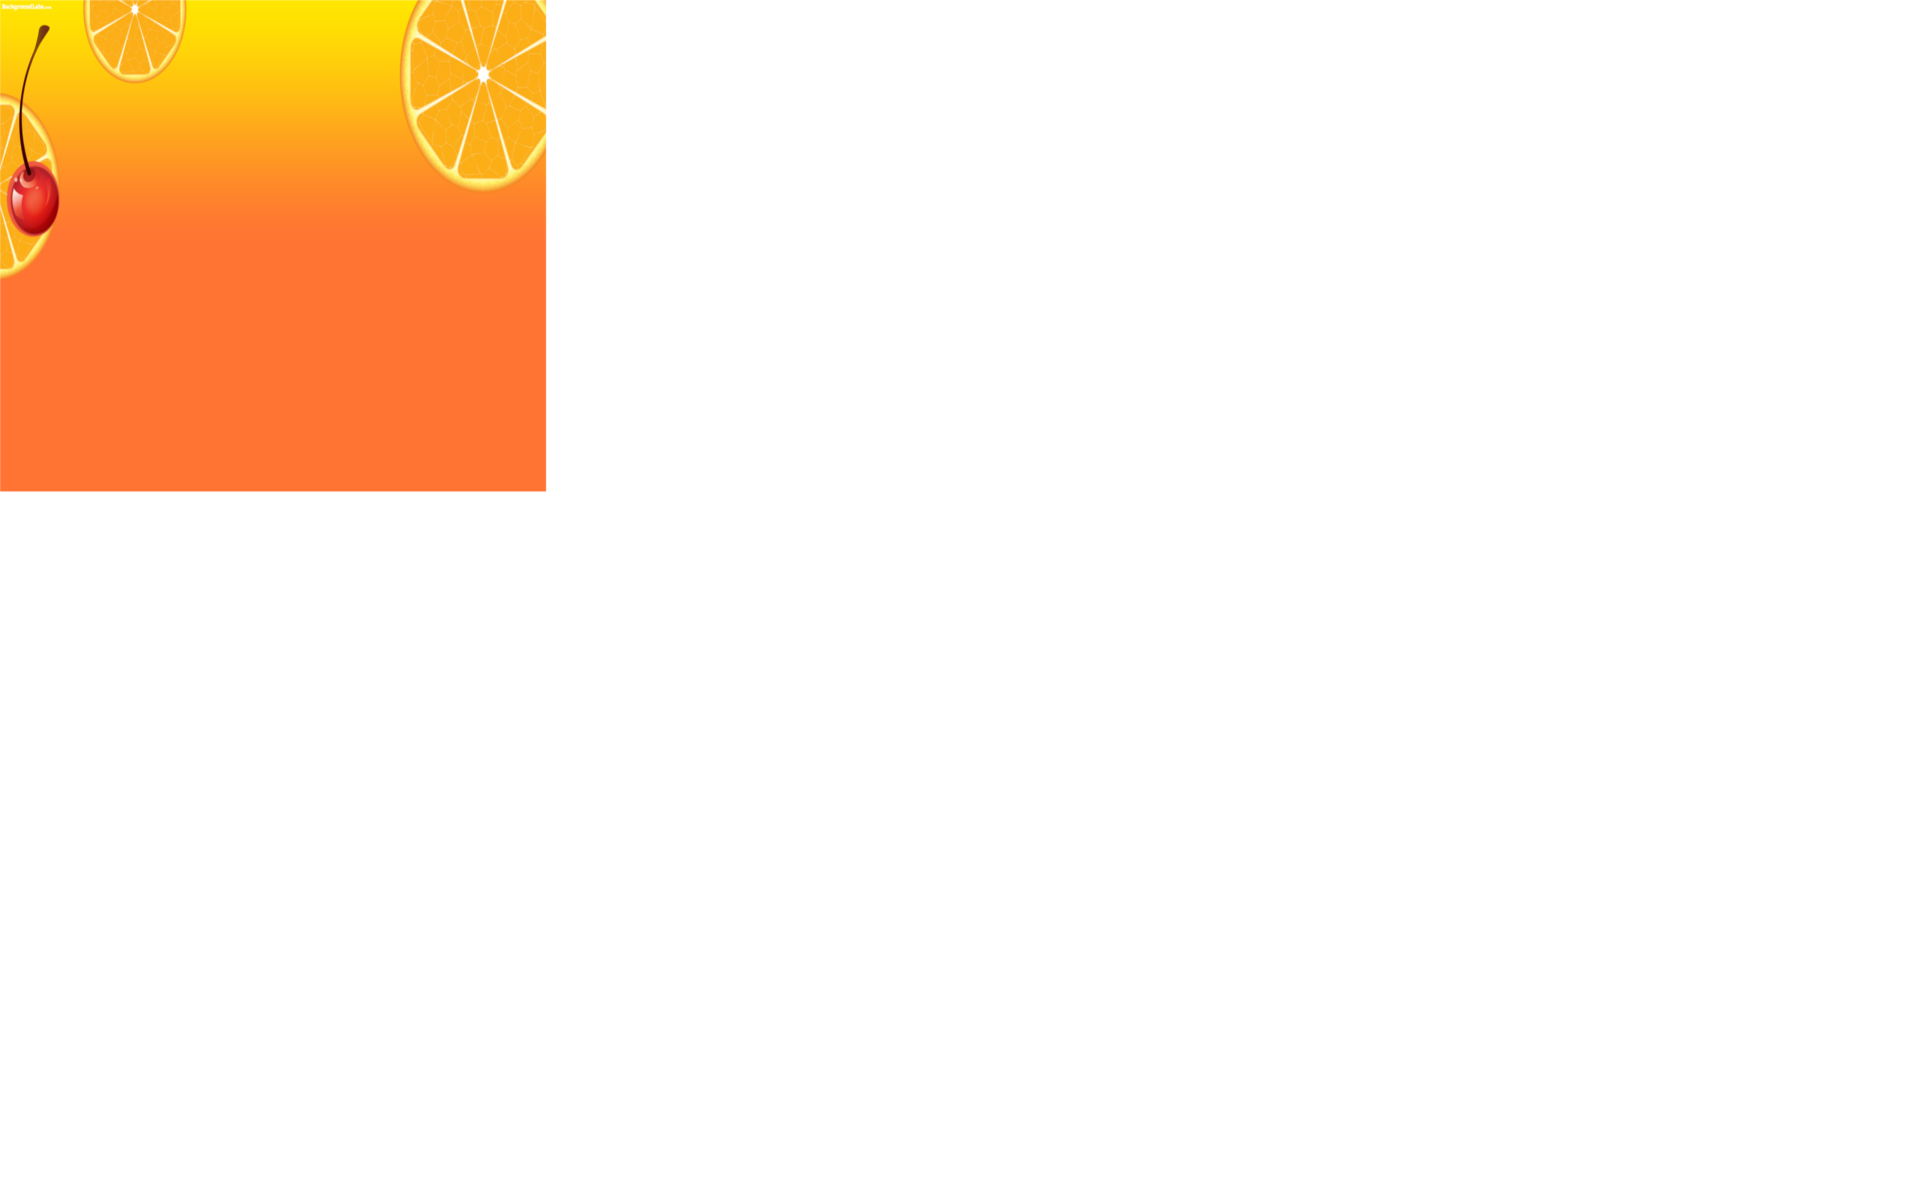
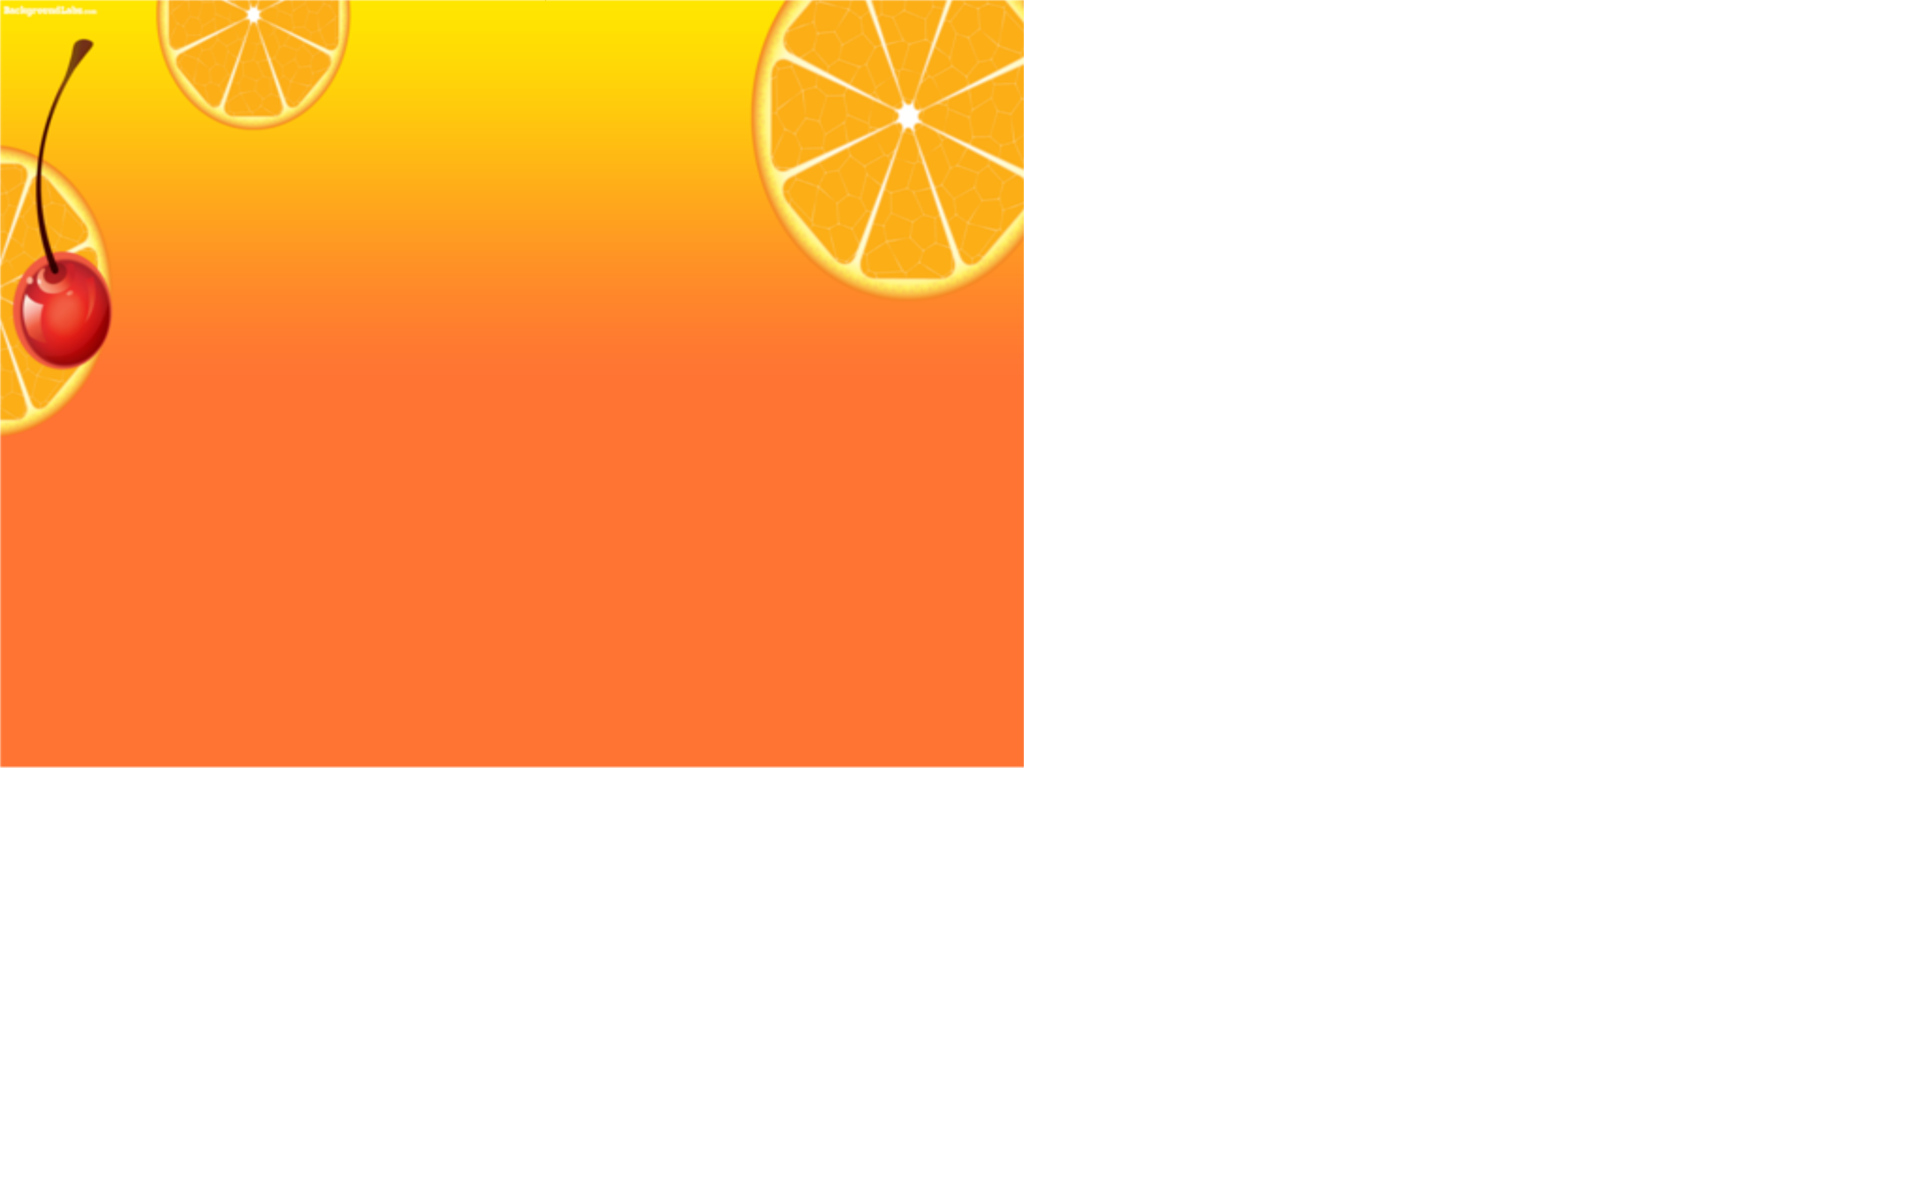
fixed menubackground

Changed region(s): [[0.0, 0.0, 0.5312, 0.6475]]

diff --git a/OGPC_GAME/src/MainMenu.cpp b/OGPC_GAME/src/MainMenu.cpp
@@ -19,7 +19,7 @@ MainMenu::MainMenu()
                                   );
     MenuEntity *orangeBG;
     orangeBG = new MenuBackground(
-                            ofVec2f(1024,768),
+                            ofVec2f(512,384),
                             Manager->getTexturePointer("OrangeBackground")
                                   );
 
@@ -42,9 +42,5 @@ void MainMenu::update(ofVec2f& mousePos, bool& clicked)
      if(optionsMenu->getEntityPointer("ExitButton")->getEventDataBool() == true)
      {
          optionsMenu->setInactive();
-     }
-     else
-     {
-         optionsMenu->setActive();
      }
 }
